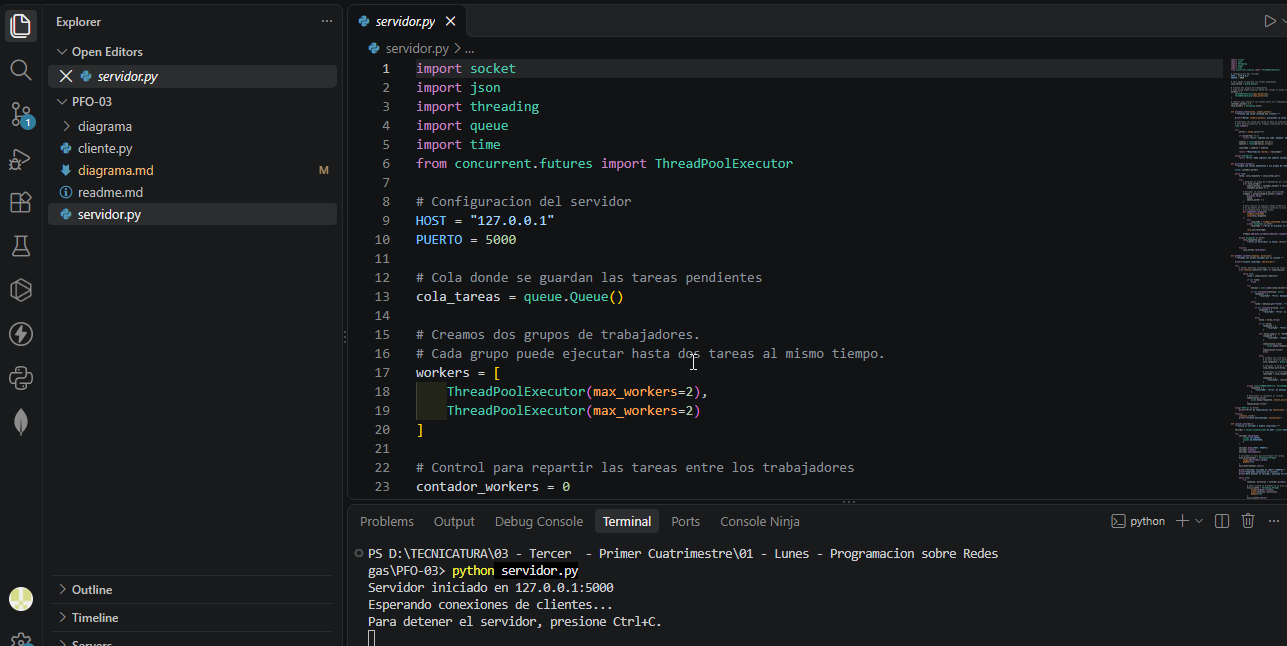
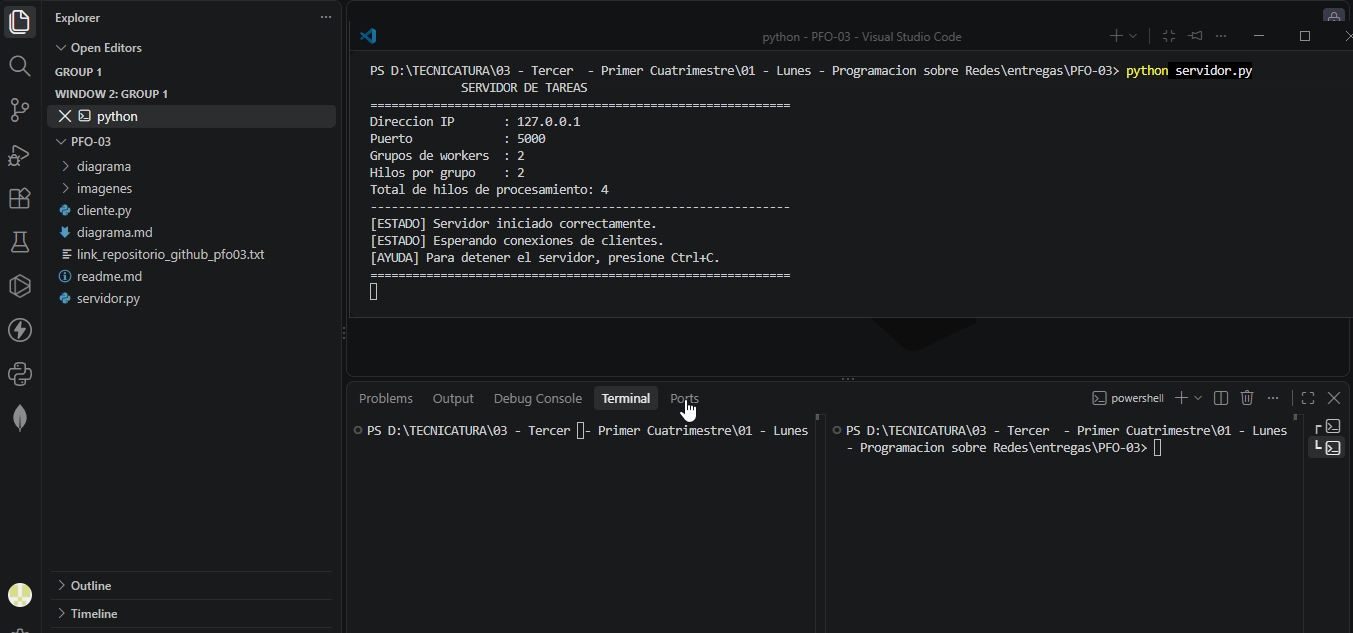
mejoras en mensajes informativos en servidor.py

diff --git a/servidor.py b/servidor.py
@@ -15,8 +15,8 @@ PUERTO = 5000
 # Cola donde se guardan las tareas pendientes.
 cola_tareas = queue.Queue()
 
-# Creamos dos grupos de trabajadores.
-# Cada grupo puede ejecutar hasta dos tareas al mismo tiempo.
+# Creamos dos Workers.
+# Cada Worker dispone de un pool de dos hilos.
 workers = [
     ThreadPoolExecutor(max_workers=2),
     ThreadPoolExecutor(max_workers=2)
@@ -35,10 +35,8 @@ lock_contadores = threading.Lock()
 def procesar_tarea(tarea, numero_worker, numero_tarea):
     """Procesa una tarea recibida de un cliente."""
 
-    print(f"\n[PROCESAMIENTO] Tarea N.° {numero_tarea}")
-    print(f"              Grupo asignado: {numero_worker}")
-    print(f"              Operacion: {tarea}")
-    print(f"              Estado: iniciando procesamiento")
+    print(f"\n[WORKER {numero_worker}] Iniciando tarea N.° {numero_tarea}")
+    print(f"[WORKER {numero_worker}] Operacion recibida: {tarea}")
 
     # Simulamos una tarea que tarda un segundo.
     time.sleep(1)
@@ -62,16 +60,15 @@ def procesar_tarea(tarea, numero_worker, numero_tarea):
     except ValueError:
         resultado = "Error: debe ingresar dos numeros validos."
 
-    print(f"[FINALIZACION] Tarea N.° {numero_tarea}")
-    print(f"              Grupo: {numero_worker}")
-    print(f"              {resultado}")
+    print(f"[WORKER {numero_worker}] Tarea N.° {numero_tarea} finalizada.")
+    print(f"[RESULTADO] Tarea N.° {numero_tarea}: {resultado}")
     print("-" * 60)
 
     return resultado
 
 
 def distribuir_tareas():
-    """Asigna las tareas pendientes a los grupos de trabajadores."""
+    """Asigna las tareas pendientes a los Workers."""
 
     global contador_workers
 
@@ -79,7 +76,7 @@ def distribuir_tareas():
         tarea, cola_respuesta, numero_tarea = cola_tareas.get()
 
         try:
-            # Elegimos el grupo de trabajadores por turnos.
+            # Elegimos el Worker por turnos.
             with lock_workers:
                 numero_worker = contador_workers % len(workers)
                 contador_workers += 1
@@ -88,10 +85,10 @@ def distribuir_tareas():
 
             print(
                 f"[ASIGNACION] Tarea N.° {numero_tarea} "
-                f"asignada al Grupo {numero_grupo}."
+                f"asignada al Worker {numero_grupo}."
             )
 
-            # Enviamos la tarea al grupo seleccionado.
+            # Enviamos la tarea al pool de hilos del Worker seleccionado.
             trabajo = workers[numero_worker].submit(
                 procesar_tarea,
                 tarea,
@@ -99,7 +96,7 @@ def distribuir_tareas():
                 numero_tarea
             )
 
-            # Se ejecuta cuando termina el procesamiento.
+            # Esta funcion se ejecuta cuando termina el procesamiento.
             def completar_respuesta(
                 trabajo_terminado,
                 cola=cola_respuesta,
@@ -114,7 +111,7 @@ def distribuir_tareas():
 
                 print(
                     f"[RESPUESTA LISTA] Tarea N.° {numero}: "
-                    f"resultado disponible para el cliente."
+                    "resultado preparado para el cliente."
                 )
 
             trabajo.add_done_callback(completar_respuesta)
@@ -132,6 +129,7 @@ def atender_cliente(conexion, direccion, numero_cliente):
     """Atiende las tareas enviadas por un cliente."""
 
     identificador = f"Cliente {numero_cliente}"
+
     print(
         f"\n[CONEXION] {identificador} conectado desde "
         f"{direccion[0]}:{direccion[1]}"
@@ -202,8 +200,8 @@ def atender_cliente(conexion, direccion, numero_cliente):
                                 print(
                                     f"\n[TAREA RECIBIDA] N.° {numero_tarea}"
                                 )
-                                print(f"                Cliente: {numero_cliente}")
-                                print(f"                Operacion: {tarea}")
+                                print(f"[CLIENTE] {identificador}")
+                                print(f"[OPERACION] {tarea}")
 
                                 # Cola para recibir el resultado de esta tarea.
                                 cola_respuesta = queue.Queue(maxsize=1)
@@ -215,10 +213,10 @@ def atender_cliente(conexion, direccion, numero_cliente):
 
                                 print(
                                     f"[COLA] Tarea N.° {numero_tarea} "
-                                    "enviada para su distribucion."
+                                    "agregada a la cola de tareas."
                                 )
 
-                                # Esperamos el resultado del trabajador.
+                                # Esperamos el resultado del Worker.
                                 resultado = cola_respuesta.get()
 
                                 respuesta = {
@@ -226,8 +224,8 @@ def atender_cliente(conexion, direccion, numero_cliente):
                                 }
 
                                 print(
-                                    f"[ENVIO] Tarea N.° {numero_tarea}: "
-                                    "devolviendo resultado al cliente."
+                                    f"[ENVIO] Resultado de la tarea "
+                                    f"N.° {numero_tarea} enviado a {identificador}."
                                 )
 
                 except (json.JSONDecodeError, UnicodeDecodeError):
@@ -280,12 +278,12 @@ def iniciar_servidor():
         hilo_distribuidor.start()
 
         print("\n" + "=" * 60)
-        print("             SERVIDOR DE TAREAS")
+        print("                  SERVIDOR DE TAREAS")
         print("=" * 60)
-        print(f"Direccion IP       : {HOST}")
-        print(f"Puerto             : {PUERTO}")
-        print(f"Grupos de workers  : {len(workers)}")
-        print("Hilos por grupo    : 2")
+        print(f"Direccion IP          : {HOST}")
+        print(f"Puerto                : {PUERTO}")
+        print(f"Cantidad de Workers   : {len(workers)}")
+        print("Hilos por Worker      : 2")
         print("Total de hilos de procesamiento: 4")
         print("-" * 60)
         print("[ESTADO] Servidor iniciado correctamente.")
@@ -301,7 +299,7 @@ def iniciar_servidor():
                     contador_clientes += 1
                     numero_cliente = contador_clientes
 
-                # Cada cliente se atiende en un hilo independiente.
+                # Cada cliente es atendido en un hilo independiente.
                 hilo_cliente = threading.Thread(
                     target=atender_cliente,
                     args=(conexion, direccion, numero_cliente),
